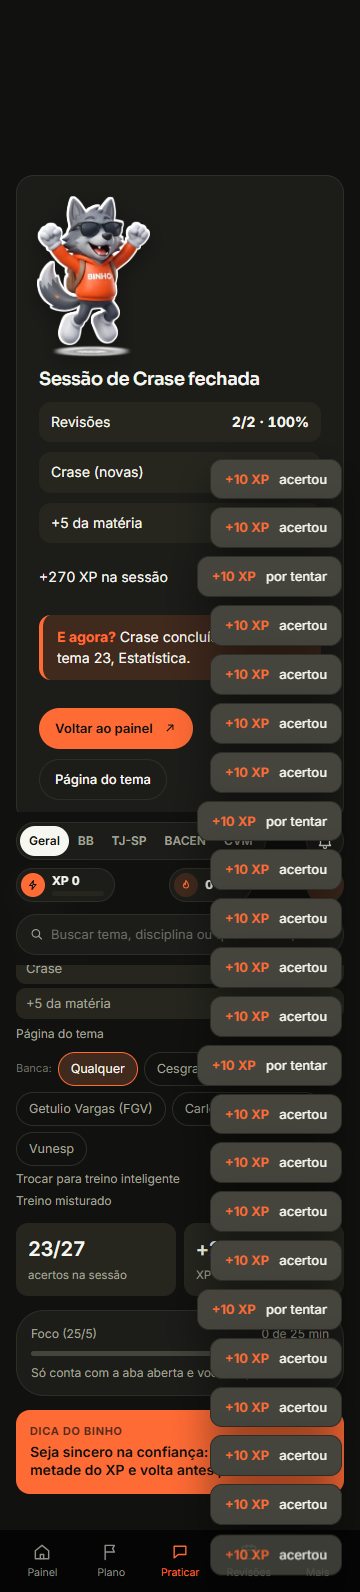
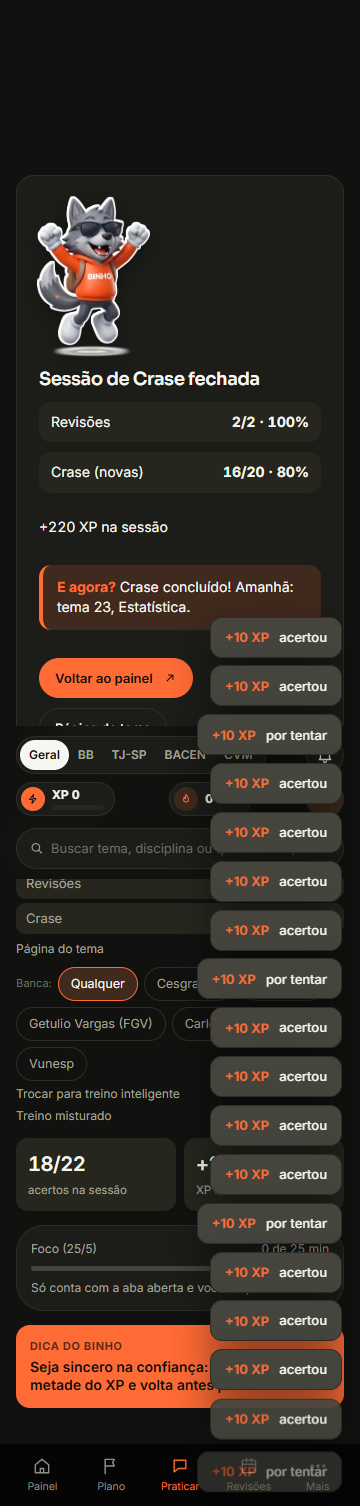
fix(tema): sessão do tema traz só questões do tema (sem Matemática no meio de Concordância)
v1.1, item 1. Teste que reproduz (falhou antes, passa depois).
- Causa: a sessão começava com revisões vencidas de TODAS as matérias e terminava com "+N da
  matéria", que virava treino misturado quando a sessão não tinha disciplina.
- shared/sessaoTema.ts: cada etapa pede só o tema (revisões do tema → novas do tema); a mistura
  fica só em Simulado e Revisões.
- Servidor e demo: revisão com subtópico = só as vencidas daquele tema.
- e2e-trilha: nenhum pedido da sessão sem o tema; 0 questões de outra matéria.
Suíte 293 ok / 0 falha; e2e-trilha verde.

Changed region(s): [[0.0306, 0.1248, 0.9472, 0.9987], [0.275, 0.9675, 0.3361, 0.9987], [0.0917, 0.9675, 0.1528, 0.9987]]

diff --git a/scripts/e2e-trilha.ts b/scripts/e2e-trilha.ts
@@ -25,7 +25,7 @@ const questao = (id: string, topicoId: string, assunto: string, enunciado: strin
 });
 
 type Tipo = "revisao" | "crase" | "lp";
-interface Estado { pedidos: { tipo: Tipo; url: string }[]; respondidas: { id: string; tipo: Tipo; acertou: boolean }[]; revisoes: number }
+interface Estado { pedidos: { tipo: Tipo; url: string }[]; respondidas: { id: string; tipo: Tipo; acertou: boolean }[]; revisoes: number; foraDoTema: string[] }
 
 function servidorFalso(p: Page, e: Estado) {
   const tipoDe = new Map<string, Tipo>();
@@ -51,14 +51,14 @@ function servidorFalso(p: Page, e: Estado) {
       case "/api/proxima": {
         const q = u.searchParams;
         let tipo: Tipo;
+        // v1.1: dentro do tema, TODO pedido leva o tema (revisões do tema, novas do tema); nada de outra matéria
+        if (q.get("subtopico") !== "crase") e.foraDoTema.push(u.search);
         if (q.get("revisao") === "1") {
           if (e.revisoes <= 0) return j({ questao: null, modo: "revisao", aviso: "Nenhuma revisão vencida agora." });
           tipo = "revisao";
         } else if (q.get("subtopico")) {
-          assert.equal(q.get("subtopico"), "crase", "o tema pedido é crase");
           tipo = "crase";
         } else {
-          assert.equal(q.get("disciplina"), "lingua_portuguesa", "as mistas são da matéria do tema");
           tipo = "lp";
         }
         e.pedidos.push({ tipo, url: u.search });
@@ -126,7 +126,7 @@ try {
     const ctx = await navegador.newContext({ viewport: { width: tela.w, height: tela.h }, colorScheme: "dark", locale: "pt-BR" });
     const p = await ctx.newPage();
     p.setDefaultTimeout(30_000);
-    const e: Estado = { pedidos: [], respondidas: [], revisoes: 2 };
+    const e: Estado = { pedidos: [], respondidas: [], revisoes: 2, foraDoTema: [] };
     await servidorFalso(p, e);
     await p.goto(`${WEB}/#painel`, { waitUntil: "domcontentloaded", timeout: 120_000 });
 
@@ -146,11 +146,10 @@ try {
     }
     // conta o que foi RESPONDIDO (no dev o StrictMode dispara a 1ª busca duas vezes)
     const ordem = e.respondidas.map((x) => x.tipo);
-    const lp = ordem.indexOf("lp");
-    assert.deepEqual(ordem.slice(0, 2), ["revisao", "revisao"], "revisões vencidas primeiro");
+    assert.deepEqual(ordem.slice(0, 2), ["revisao", "revisao"], "revisões vencidas do tema primeiro");
     assert.equal(ordem.filter((t) => t === "crase").length, 20, "20 de crase");
-    assert.equal(ordem.filter((t) => t === "lp").length, 5, "+5 de Português");
-    assert.ok(ordem.slice(2, lp).every((t) => t === "crase"), `crase só traz crase, antes das mistas: ${ordem.join(",")}`);
+    assert.equal(ordem.filter((t) => t === "lp").length, 0, "nenhuma questão de outro tema (v1.1)");
+    assert.deepEqual(e.foraDoTema, [], `todo pedido da sessão leva o tema: ${e.foraDoTema.join(" ")}`);
     assert.ok(e.pedidos.filter((x) => x.tipo === "crase").every((x) => /subtopico=crase/.test(x.url)));
     const res = await p.locator("[data-testid=resultado-sessao]").innerText();
     assert.match(res, /Crase \(novas\)\s*16\/20/);
@@ -178,7 +177,7 @@ try {
     assert.match(await linha.innerText(), /80%/);
     assert.match(await linha.innerText(), /concluído/);
     await p.screenshot({ path: `${PASTA}/desempenho-${tela.nome}.png`, fullPage: true });
-    console.log(`✔ ${tela.nome}: painel → tema do dia → revisões → 20 de crase → +5 de Português → resultado → página do tema → desempenho`);
+    console.log(`✔ ${tela.nome}: painel → tema do dia → revisões do tema → 20 de crase (só crase) → resultado → página do tema → desempenho`);
     await ctx.close();
   }
 
@@ -187,7 +186,7 @@ try {
     const ctx = await navegador.newContext({ viewport: { width: 1440, height: 900 }, colorScheme: "dark", locale: "pt-BR" });
     const p = await ctx.newPage();
     p.setDefaultTimeout(30_000);
-    const e: Estado = { pedidos: [], respondidas: [], revisoes: 0 };
+    const e: Estado = { pedidos: [], respondidas: [], revisoes: 0, foraDoTema: [] };
     await servidorFalso(p, e);
     let inicio: unknown = null;
     await p.route((u) => u.pathname === "/api/trilha/inicio", (r) => { inicio = r.request().postDataJSON(); return r.fulfill({ json: { ok: true } }); });

diff --git a/web/src/telas/Praticar.tsx b/web/src/telas/Praticar.tsx
@@ -16,6 +16,7 @@ import { pct } from "../util";
 import { Pose } from "../componentes/Pose";
 import { PergunteAoBinho } from "../componentes/PergunteAoBinho";
 import { BANCAS } from "../../../shared/concursos";
+import { pedidoDaEtapa } from "../../../shared/sessaoTema";
 
 type Etapa = "revisoes" | "tema" | "mistas" | "fim";
 type Placar = Record<Exclude<Etapa, "fim">, { n: number; a: number }>;
@@ -38,7 +39,6 @@ function ResultadoSessao({ s, placar, xp }: { s: SessaoTema; placar: Placar; xp:
       <h2>Sessão de {s.nome} fechada</h2>
       {s.revisoes && linha("Revisões", placar.revisoes)}
       {linha(`${s.nome} (novas)`, placar.tema)}
-      {linha(`+${s.mistas} da matéria`, placar.mistas)}
       <p className="num">+{xp} XP na sessão</p>
       {placar.tema.n < s.novas && <p className="atalho">Acabaram as questões novas deste tema por hoje. O noturno prepara mais.</p>}
       {hoje && <p className="amanha" data-testid="amanha"><b>E agora?</b> {amanha(hoje, hoje.novasFeitasHoje, hoje.acertosHoje)}</p>}
@@ -100,23 +100,17 @@ export function Praticar() {
   const [fimSessao, setFimSessao] = useState(false);
 
   // próxima da sessão: avança de etapa quando a atual acaba (sem revisão, sem novas do tema, cota cheia)
+  // v1.1: dentro do tema, SÓ o tema (revisões do tema → novas do tema); sem "+N da matéria" misturado
   const proximaDaSessao = useCallback(async (s: SessaoTema) => {
     const excluir = vistas.current;
     if (etapa.current === "revisoes") {
-      const r = await api.proxima({ revisao: true });
-      if (r.questao && !excluir.includes(r.questao.id)) return r;
+      const r = await api.proxima(pedidoDaEtapa("revisoes", s, excluir));
+      if (r.questao && r.modo === "revisao" && !excluir.includes(r.questao.id)) return r;
       etapa.current = "tema";
     }
-    if (etapa.current === "tema") {
-      if (placarRef.current.tema.n < s.novas) {
-        const r = await api.proxima({ subtopico: s.subtopico, excluir, ...(s.banca ? { banca: s.banca } : {}) });
-        if (r.questao && !r.repetida) return r;
-      }
-      etapa.current = "mistas";
-    }
-    if (etapa.current === "mistas" && placarRef.current.mistas.n < s.mistas) {
-      const r = await api.proxima(s.disciplina ? { disciplina: s.disciplina, excluir } : { misto: true, excluir });
-      if (r.questao) return r;
+    if (etapa.current === "tema" && placarRef.current.tema.n < s.novas) {
+      const r = await api.proxima(pedidoDaEtapa("tema", s, excluir));
+      if (r.questao && !r.repetida) return r;
     }
     etapa.current = "fim";
     return null;
@@ -555,7 +549,6 @@ export function Praticar() {
             <ol className="etapas-sessao" aria-label="Etapas da sessão">
               {filtro.sessao.revisoes && <li className={etapaDaQuestao.current === "revisoes" && !fimSessao ? "atual" : ""}>Revisões <span className="num">{placar.revisoes.n}</span></li>}
               <li className={etapaDaQuestao.current === "tema" && !fimSessao ? "atual" : ""}>{filtro.sessao.nome} <span className="num">{placar.tema.n}/{filtro.sessao.novas}</span></li>
-              <li className={etapaDaQuestao.current === "mistas" && !fimSessao ? "atual" : ""}>+{filtro.sessao.mistas} da matéria <span className="num">{placar.mistas.n}/{filtro.sessao.mistas}</span></li>
             </ol>
           )}
           {filtro.sessao && <button className="link" onClick={() => ir("tema", { subtopico: filtro.sessao!.subtopico })}>Página do tema</button>}

diff --git a/src/estudo.ts b/src/estudo.ts
@@ -413,6 +413,15 @@ export const apiServidor: Omit<Api, "modo"> = {
     }
 
     // praticar por TEMA: só o subtópico, novas primeiro ("crase só traz crase")
+    // v1.1: revisão dentro do tema = só as vencidas DAQUELE tema (nunca de outra matéria)
+    if (f.subtopico && f.revisao) {
+      const doTema = await Question.find({ subtopico: f.subtopico, status: "aprovada" }).select("_id").lean();
+      const fora = new Set(f.excluir ?? []);
+      const vencidas = await ReviewState.find({ userId, proximaRevisao: { $lte: new Date() }, questionId: { $in: doTema.map((q) => q._id) } }).sort({ proximaRevisao: 1 }).limit(30).lean();
+      const v = vencidas.find((x) => !fora.has(String(x.questionId)));
+      const q = v ? await Question.findById(v.questionId).lean<QuestaoDoc>() : null;
+      return q ? { questao: paraDTO(q, topicos), modo: "revisao" } : { questao: null, modo: "revisao", aviso: "Nenhuma revisão vencida neste tema." };
+    }
     if (f.subtopico) {
       const r = await proximaDoTema(f.subtopico, f.excluir, f.banca);
       if (!r) return { questao: null, modo: "treino", aviso: "Este tema ainda não tem questões aprovadas. Pedi prioridade ao noturno." };

diff --git a/shared/sessaoTema.test.ts b/shared/sessaoTema.test.ts
@@ -1,0 +1,19 @@
+import assert from "node:assert/strict";
+import test from "node:test";
+import { ETAPAS_SESSAO_TEMA, pedidoDaEtapa } from "./sessaoTema.js";
+
+// v1.1, item 1 (defeito): praticando Concordância, veio uma questão de Matemática (revisões de todas as
+// matérias no começo da sessão e "+N da matéria" virando treino misturado no fim)
+test("sessão do tema: toda etapa pede SÓ o tema (nada de misto, disciplina ou revisão de outra matéria)", () => {
+  const s = { subtopico: "concordancia", banca: "cesgranrio" };
+  assert.deepEqual(ETAPAS_SESSAO_TEMA, ["revisoes", "tema"], "sem a etapa de mistas");
+  for (const etapa of ETAPAS_SESSAO_TEMA) {
+    const p = pedidoDaEtapa(etapa, s, ["x1"]);
+    assert.equal(p.subtopico, "concordancia", `${etapa}: sempre o tema`);
+    assert.equal("misto" in p, false, `${etapa}: nunca misto`);
+    assert.equal("disciplina" in p, false, `${etapa}: nunca a matéria inteira`);
+    assert.deepEqual(p.excluir, ["x1"]);
+  }
+  assert.equal(pedidoDaEtapa("revisoes", s, []).revisao, true);
+  assert.deepEqual(pedidoDaEtapa("tema", s, []), { subtopico: "concordancia", excluir: [], banca: "cesgranrio" });
+});

diff --git a/web/src/api/demo.ts b/web/src/api/demo.ts
@@ -420,6 +420,12 @@ export const apiDemo: Api = {
       return espera({ questao: q ? paraDTO(q) : null, modo: "treino" as const });
     }
 
+    // v1.1: revisão dentro do tema = só as vencidas daquele tema (igual ao servidor)
+    if (f.subtopico && f.revisao) {
+      const agora = Date.now();
+      const q = ativas.find((x) => subDe(x) === f.subtopico && !(f.excluir ?? []).includes(x.id) && e.revisoes[x.id] && new Date(e.revisoes[x.id].proxima).getTime() <= agora);
+      return espera(q ? { questao: paraDTO(q), modo: "revisao" as const } : { questao: null, modo: "revisao" as const, aviso: "Nenhuma revisão vencida neste tema." });
+    }
     // praticar por tema: só o subtópico, novas primeiro (igual ao servidor)
     if (f.subtopico) {
       // as questões de exemplo são todas no estilo Cesgranrio

diff --git a/shared/sessaoTema.ts b/shared/sessaoTema.ts
@@ -1,0 +1,11 @@
+// Sessão de estudo de UM tema (v1.1, estudo sequencial): só questões daquele tema e dos seus subtemas.
+// Primeiro as revisões vencidas DO TEMA, depois as novas do tema. A mistura de matérias (estruturaProva)
+// só existe em Simulado e Revisões, nunca dentro de um tema.
+export const ETAPAS_SESSAO_TEMA = ["revisoes", "tema"] as const;
+export type EtapaSessaoTema = (typeof ETAPAS_SESSAO_TEMA)[number];
+
+export function pedidoDaEtapa(etapa: EtapaSessaoTema, s: { subtopico: string; banca?: string }, excluir: string[]) {
+  return etapa === "revisoes"
+    ? { revisao: true, subtopico: s.subtopico, excluir }
+    : { subtopico: s.subtopico, excluir, ...(s.banca ? { banca: s.banca } : {}) };
+}
